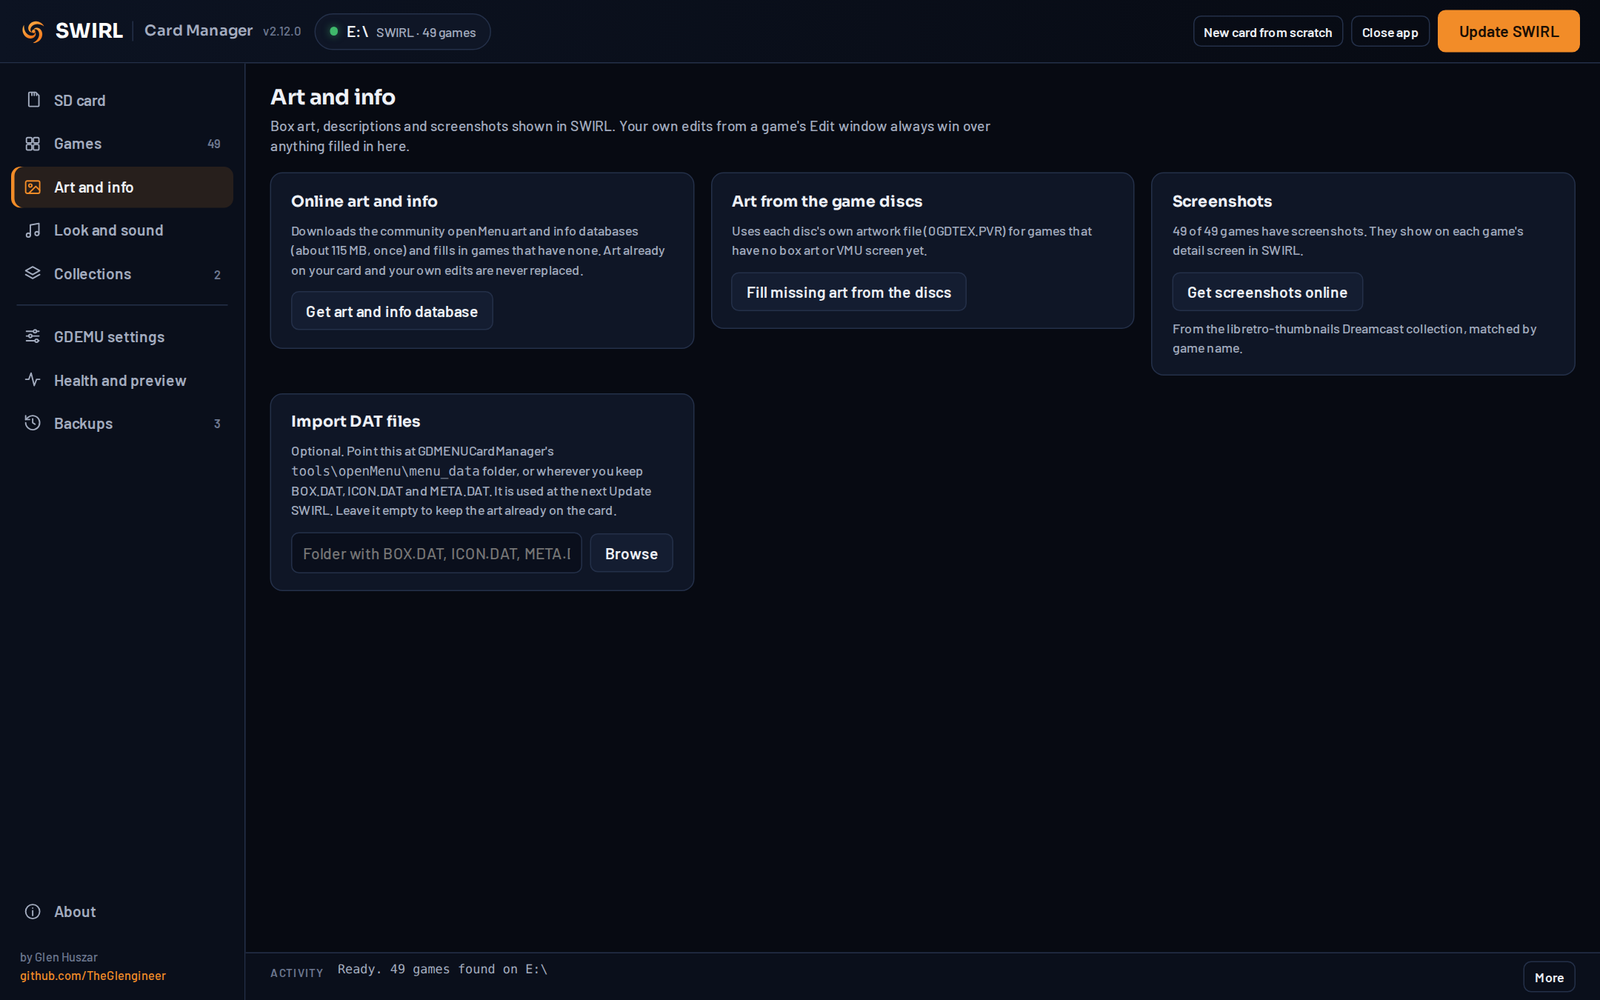
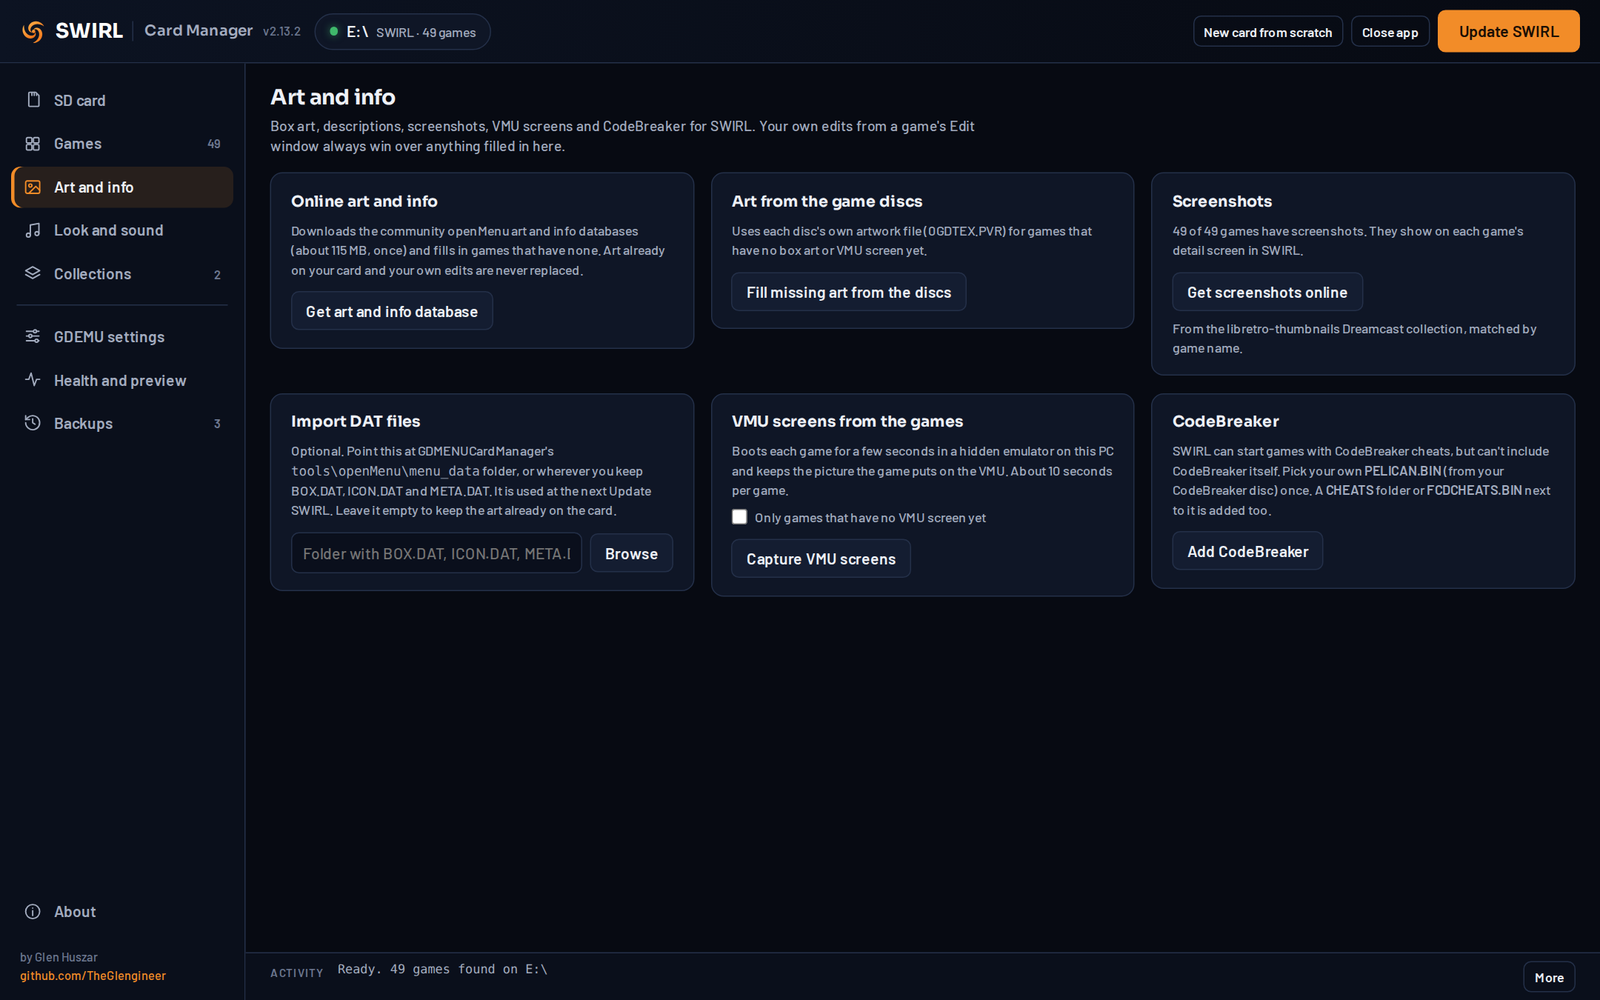
Card Manager: move VMU screens and CodeBreaker to Art and info

Changed region(s): [[0.4375, 0.403, 0.9688, 0.589], [0.1562, 0.124, 0.625, 0.155]]

diff --git a/swirl/cardmanager/web/index.html b/swirl/cardmanager/web/index.html
@@ -548,7 +548,7 @@ kbd{font-family:Barlow,sans-serif;font-size:.78rem;font-weight:600;color:var(--t
       </section>
 
       <section class="view" data-view="art">
-        <div class="vhead"><div class="grow"><h2>Art and info</h2><p>Box art, descriptions and screenshots shown in SWIRL. Your own edits from a game's Edit window always win over anything filled in here.</p></div></div>
+        <div class="vhead"><div class="grow"><h2>Art and info</h2><p>Box art, descriptions, screenshots, VMU screens and CodeBreaker for SWIRL. Your own edits from a game's Edit window always win over anything filled in here.</p></div></div>
         <div class="grid">
           <div class="panel"><h3>Online art and info</h3>
             <p class="hint tight" id="dbInfo">Downloads the community openMenu art and info databases (about 115 MB, once) and fills in games that have none. Art already on your card and your own edits are never replaced.</p>
@@ -563,11 +563,18 @@ kbd{font-family:Barlow,sans-serif;font-size:.78rem;font-weight:600;color:var(--t
           <div class="panel"><h3>Import DAT files</h3>
             <p class="hint tight">Optional. Point this at GDMENUCardManager's <span class="mono">tools\openMenu\menu_data</span> folder, or wherever you keep BOX.DAT, ICON.DAT and META.DAT. It is used at the next Update SWIRL. Leave it empty to keep the art already on the card.</p>
             <div class="row" style="margin-top:.8rem"><input type="text" id="dats" placeholder="Folder with BOX.DAT, ICON.DAT, META.DAT"><button class="btn" data-browse="dats">Browse</button></div></div>
+          <div class="panel"><h3>VMU screens from the games</h3>
+            <p class="hint tight" data-pc>Boots each game for a few seconds in a hidden emulator on this PC and keeps the picture the game puts on the VMU. About 10 seconds per game.</p>
+            <label class="hint check"><input type="checkbox" id="capMissing"> Only games that have no VMU screen yet</label>
+            <div class="row" style="margin-top:.8rem"><button class="btn" id="capGo" disabled>Capture VMU screens</button><button class="btn" id="capReview" hidden>Review</button></div></div>
+          <div class="panel"><h3>CodeBreaker</h3>
+            <p class="hint tight" id="cbInfo">SWIRL can start games with CodeBreaker cheats. Pick your own CodeBreaker PELICAN.BIN file once.</p>
+            <div class="row" style="margin-top:.8rem"><button class="btn" id="cbPick" disabled>Add CodeBreaker</button><button class="btn" id="cbRemove" hidden>Remove CodeBreaker</button></div></div>
         </div>
       </section>
 
       <section class="view" data-view="look">
-        <div class="vhead"><div class="grow"><h2>Look and sound</h2><p>The VMU pictures and menu music SWIRL uses. Changes go onto the Dreamcast at the next Update SWIRL.</p></div></div>
+        <div class="vhead"><div class="grow"><h2>Look and sound</h2><p>The VMU logo and menu music SWIRL uses. Changes go onto the Dreamcast at the next Update SWIRL.</p></div></div>
         <div class="grid">
           <div class="panel"><h3>VMU logo</h3>
             <div class="media"><div class="vmu sm" id="logoNow">SWIRL logo</div><p class="hint tight" id="logoInfo">Shown on the VMU when SWIRL starts and on its System screens.</p></div>
@@ -575,13 +582,6 @@ kbd{font-family:Barlow,sans-serif;font-size:.78rem;font-weight:600;color:var(--t
           <div class="panel"><h3>Menu music</h3>
             <p class="hint tight" id="musicInfo">SWIRL plays its own theme unless you pick your own music.</p>
             <div class="row" style="margin-top:.8rem"><button class="btn small" id="musicPick" disabled>Use my own music</button><button class="btn small" id="musicRemove" hidden>Back to the SWIRL theme</button></div></div>
-          <div class="panel"><h3>CodeBreaker</h3>
-            <p class="hint tight" id="cbInfo">SWIRL can start games with CodeBreaker cheats. Pick your own CodeBreaker PELICAN.BIN file once.</p>
-            <div class="row" style="margin-top:.8rem"><button class="btn small" id="cbPick" disabled>Add CodeBreaker</button><button class="btn small" id="cbRemove" hidden>Remove CodeBreaker</button></div></div>
-          <div class="panel"><h3>VMU screens from the games</h3>
-            <p class="hint tight" data-pc>Boots each game for a few seconds in a hidden emulator on this PC and keeps the picture the game puts on the VMU. About 10 seconds per game.</p>
-            <label class="hint check"><input type="checkbox" id="capMissing"> Only games that have no VMU screen yet</label>
-            <div class="row" style="margin-top:.8rem"><button class="btn" id="capGo" disabled>Capture VMU screens</button><button class="btn" id="capReview" hidden>Review</button></div></div>
         </div>
       </section>
 

diff --git a/docs/CARD_MANAGER.md b/docs/CARD_MANAGER.md
@@ -63,6 +63,8 @@ launch options (see [Using SWIRL](USING_SWIRL.md#launch-options)).
 - **Art from the game discs**: uses the artwork inside each disc for games with no box art.
 - **Screenshots**: fetches two screenshots per game from libretro thumbnails.
 - **Import DAT files**: brings in `BOX.DAT`, `ICON.DAT` and `META.DAT` from a GDMENUCardManager or openMenu setup.
+- **VMU screens from the games**: boots each game for a few seconds in a hidden emulator and keeps the picture it draws on the VMU. About 10 seconds per game.
+- **CodeBreaker**: pick your own CodeBreaker `PELICAN.BIN` once (a `CHEATS` folder or `FCDCHEATS.BIN` next to it is added too). **Update SWIRL** puts it on the menu disc, and SWIRL's launch options then offer **Play with CodeBreaker cheats**. SWIRL can't include CodeBreaker itself.
 
 Your own edits from a game's Edit window always win over downloaded art.
 
@@ -71,9 +73,7 @@ Your own edits from a game's Edit window always win over downloaded art.
 ![Look and sound](images/cm-look.png)
 
 - **VMU logo**: shown on the VMU when SWIRL starts. Use your own picture, or go back to the SWIRL logo.
-- **CodeBreaker**: pick your own CodeBreaker `PELICAN.BIN` once (a `CHEATS` folder or `FCDCHEATS.BIN` next to it is added too). **Update SWIRL** puts it on the menu disc, and SWIRL's launch options then offer **Play with CodeBreaker cheats**. SWIRL can't include CodeBreaker itself.
 - **Menu music**: SWIRL plays its theme unless you pick your own WAV or MP3. The theme cannot be deleted, only replaced by your own music, and **Back to the SWIRL theme** restores it.
-- **VMU screens from the games**: boots each game for a few seconds in a hidden emulator and keeps the picture it draws on the VMU. About 10 seconds per game.
 
 ## Collections
 

diff --git a/docs/SD_CARD_LAYOUT.md b/docs/SD_CARD_LAYOUT.md
@@ -39,7 +39,7 @@ Folder `01` is a small GD-ROM image that GDEMU boots first. Inside it:
 | `COLLECT.TXT` | Your own collections | Optional, added by SWIRL |
 | `LOGO.VMU` | Your own VMU logo | Optional, added by SWIRL |
 | `THEME/` | openMenu themes. SWIRL takes the Sega Dreamcast logo for its header from `THEME/NTSC_U/BG_U_L.PVR`; Card Manager adds that one file from openMenu's release when it is missing | Optional |
-| `PELICAN.BIN` | CodeBreaker, for the "Play with CodeBreaker cheats" option. Added from Card Manager's Look and sound page | Optional |
+| `PELICAN.BIN` | CodeBreaker, for the "Play with CodeBreaker cheats" option. Added from Card Manager's Art and info page | Optional |
 | `BLEEM.BIN` | Bleem, for PlayStation discs | Optional |
 | `GDEMUNFO.TXT` | Notes which tool made the disc | Optional |
 

diff --git a/CHANGELOG.md b/CHANGELOG.md
@@ -17,8 +17,12 @@ may ship without menu changes; the menu then keeps its major.minor version (2.11
 ### CodeBreaker
 
 - "Play with CodeBreaker cheats" is always listed in a game's launch options; without CodeBreaker on the card it is greyed out and says how to add it
-- SWIRL Card Manager: Look and sound > CodeBreaker adds your own PELICAN.BIN (and a CHEATS folder or FCDCHEATS.BIN next to it) to the menu disc
+- SWIRL Card Manager: Art and info > CodeBreaker adds your own PELICAN.BIN (and a CHEATS folder or FCDCHEATS.BIN next to it) to the menu disc
 - Cheats for games whose serial has a dash (for example T-8101N) are found
+
+### SWIRL Card Manager
+
+- VMU screens from the games moved from Look and sound to Art and info, next to the new CodeBreaker panel
 
 ## [2.13.1]
 

diff --git a/docs/USING_SWIRL.md b/docs/USING_SWIRL.md
@@ -75,7 +75,7 @@ game that misbehaves or that you want to start differently:
 Choices are saved per game on your VMU, and the game page then shows **Options (custom)**.
 
 **Play with CodeBreaker cheats** starts the game through CodeBreaker. SWIRL can't include CodeBreaker, so
-add your own `PELICAN.BIN` once in SWIRL Card Manager (**Look and sound > CodeBreaker**) and run **Update
+add your own `PELICAN.BIN` once in SWIRL Card Manager (**Art and info > CodeBreaker**) and run **Update
 SWIRL**; until then the option is greyed out. PlayStation discs are started through Bleem when `BLEEM.BIN` is on the menu disc.
 
 ## System
